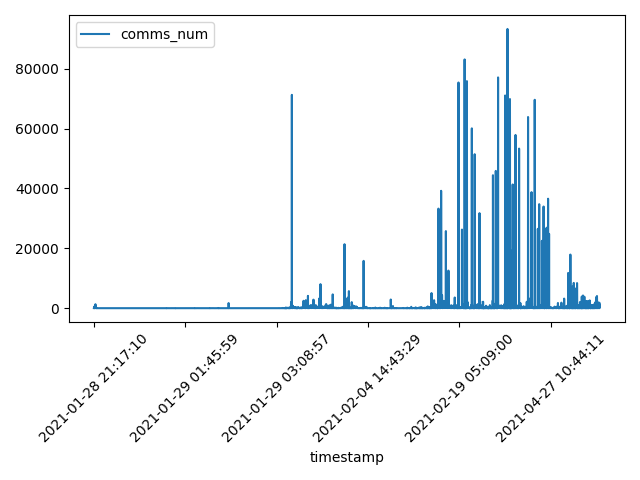
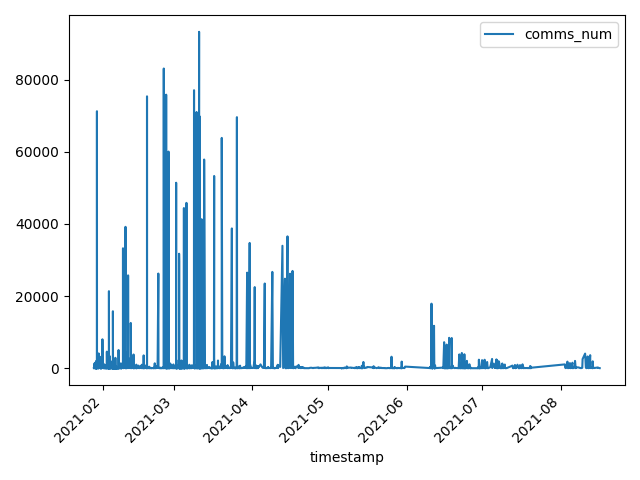
fixed timestamps

diff --git a/misc/investigate.py b/misc/investigate.py
@@ -9,6 +9,9 @@ file = read_csv(r'../dataset/reddit_wsb.csv')
 tickers = read_excel(r'../dataset/tickers.xlsx')
 tickers_found = read_csv(r'../dataset/ticker_location.csv')
 
+file['timestamp'] = pd.to_datetime(file['timestamp'])
+print(file)
+
 sorted_comments = file.sort_values(['score'], ascending=False)
 print(sorted_comments.head(1))
 
